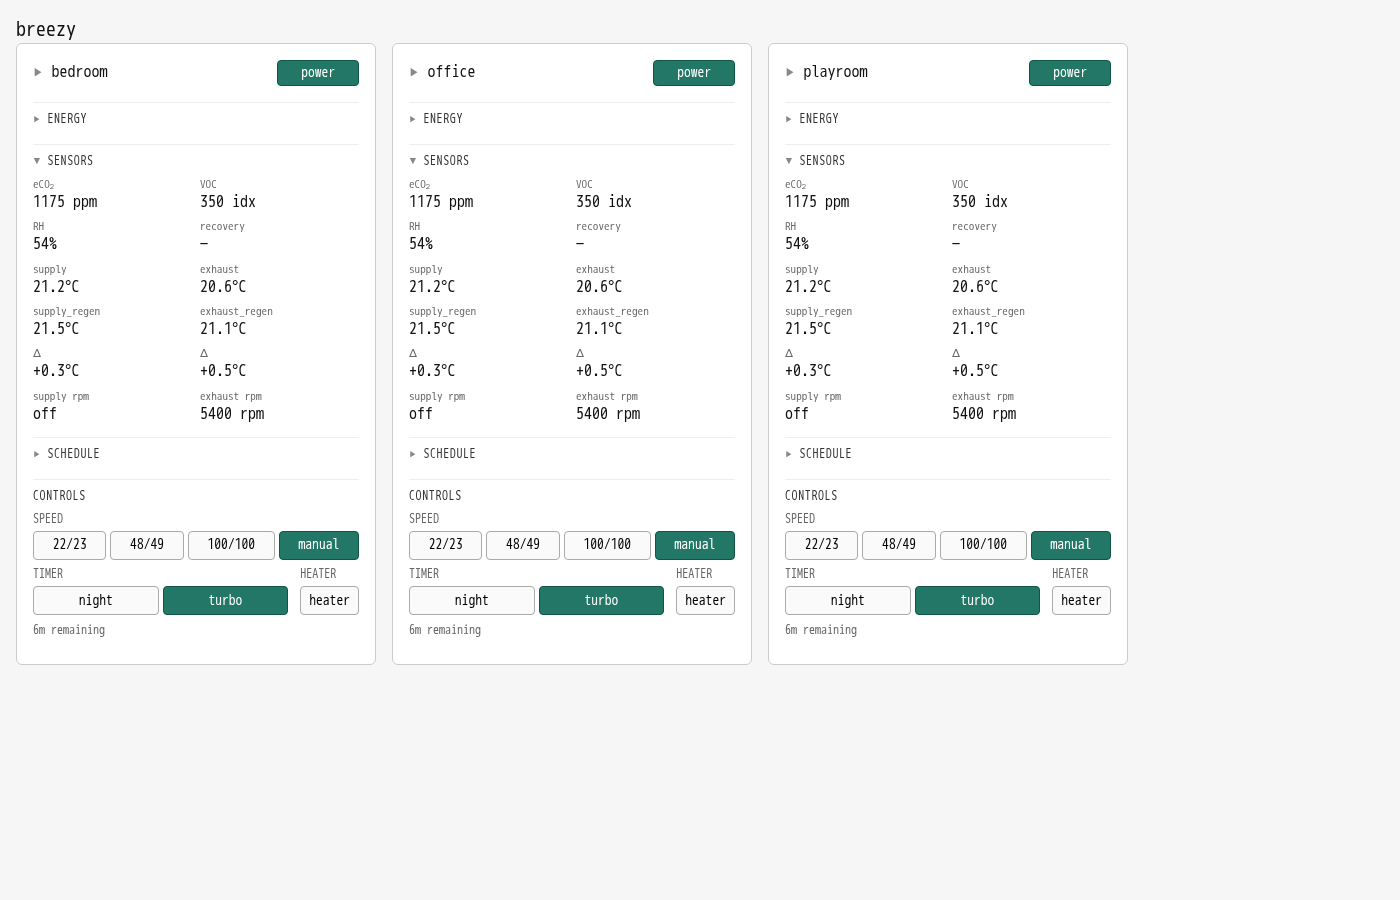
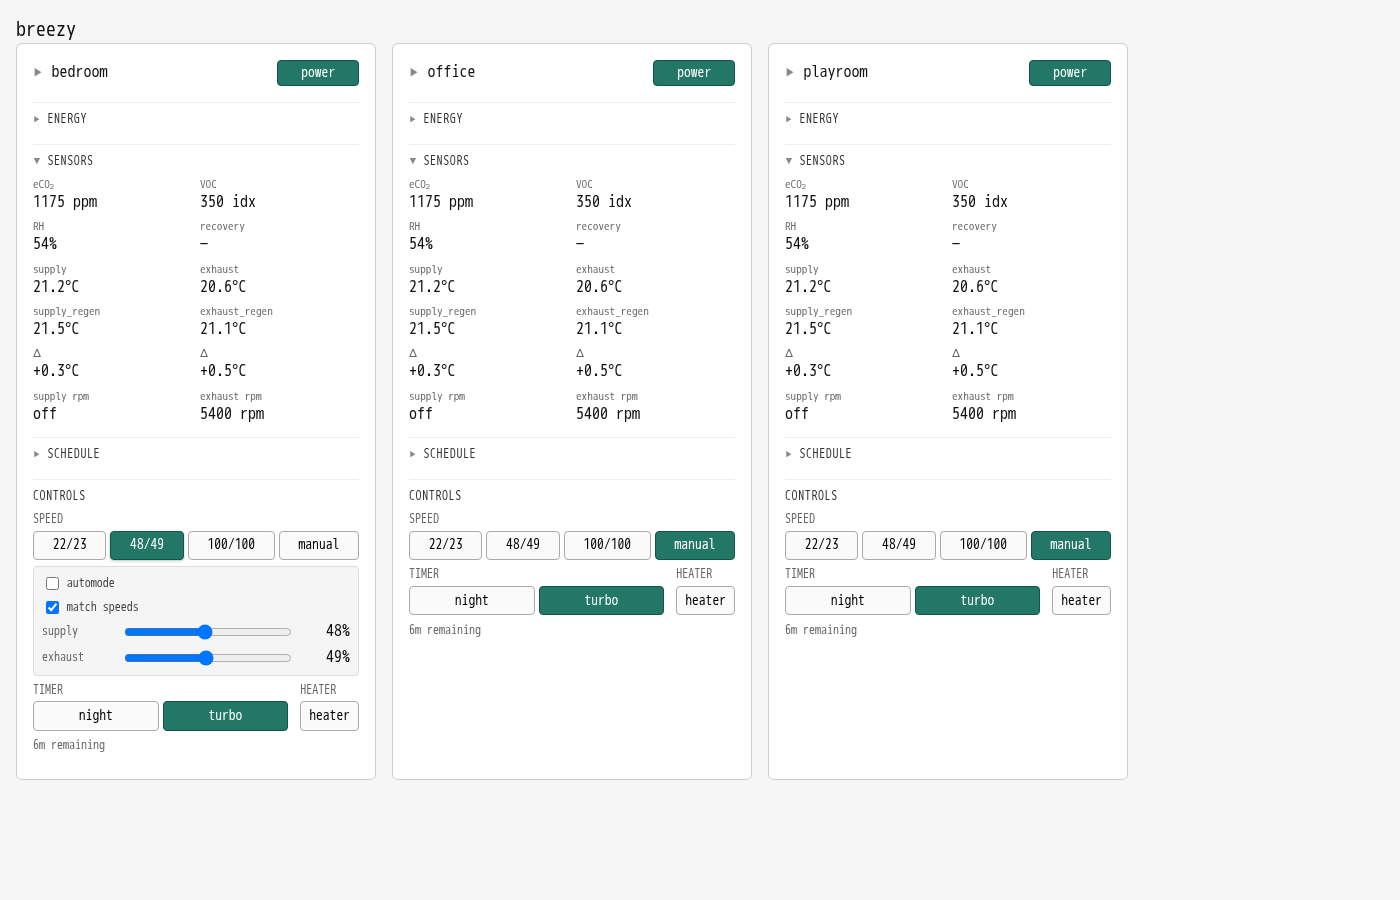
ui: README screenshot shows restored preset editor (#53)
Open preset 2's editor on the bedroom card before the 3-col screenshot
so the README image shows the complete preset-editor UI that was restored
in this branch.

Changed region(s): [[0.0307, 0.5911, 0.2764, 0.84]]

diff --git a/tests/ui/screenshot.ts b/tests/ui/screenshot.ts
@@ -158,7 +158,12 @@ async function main() {
   await new Promise((r) => setTimeout(r, 1500));
 
   try {
-    await captureViewport(daemonURL, 1400, 900, resolve(OUT_DIR, "dashboard-3col.png"));
+    await captureViewport(daemonURL, 1400, 900, resolve(OUT_DIR, "dashboard-3col.png"), async (page) => {
+      // Open preset 2's editor on the bedroom card so the README screenshot
+      // shows the restored preset editor (#53).
+      await page.locator('.card:first-of-type [data-action="preset"][data-value="2"]').click();
+      await page.waitForSelector('.card:first-of-type [data-preset-editor="2"]:not([hidden])');
+    });
     await captureViewport(daemonURL, 480, 900, resolve(OUT_DIR, "dashboard-1col.png"));
   } finally {
     // Kill breezyd first so it stops talking UDP to the fakedevices, then
@@ -168,7 +173,13 @@ async function main() {
   }
 }
 
-async function captureViewport(daemonURL: string, width: number, height: number, outFile: string) {
+async function captureViewport(
+  daemonURL: string,
+  width: number,
+  height: number,
+  outFile: string,
+  beforeShot?: (page: import("@playwright/test").Page) => Promise<void>,
+) {
   const browser = await chromium.launch();
   try {
     const ctx = await browser.newContext({ viewport: { width, height } });
@@ -189,6 +200,7 @@ async function captureViewport(daemonURL: string, width: number, height: number,
     );
     // Let htmx finish any in-flight swap before snapping.
     await page.waitForTimeout(500);
+    if (beforeShot) await beforeShot(page);
     await page.screenshot({ path: outFile, fullPage: true });
 
     if (pageErrors.length > 0) {